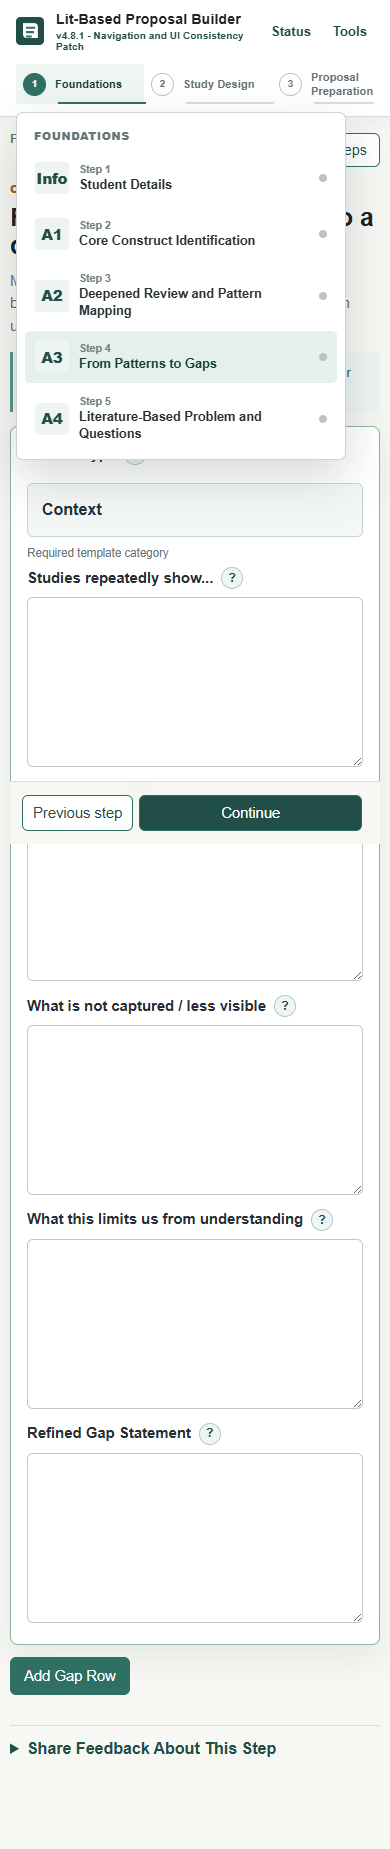
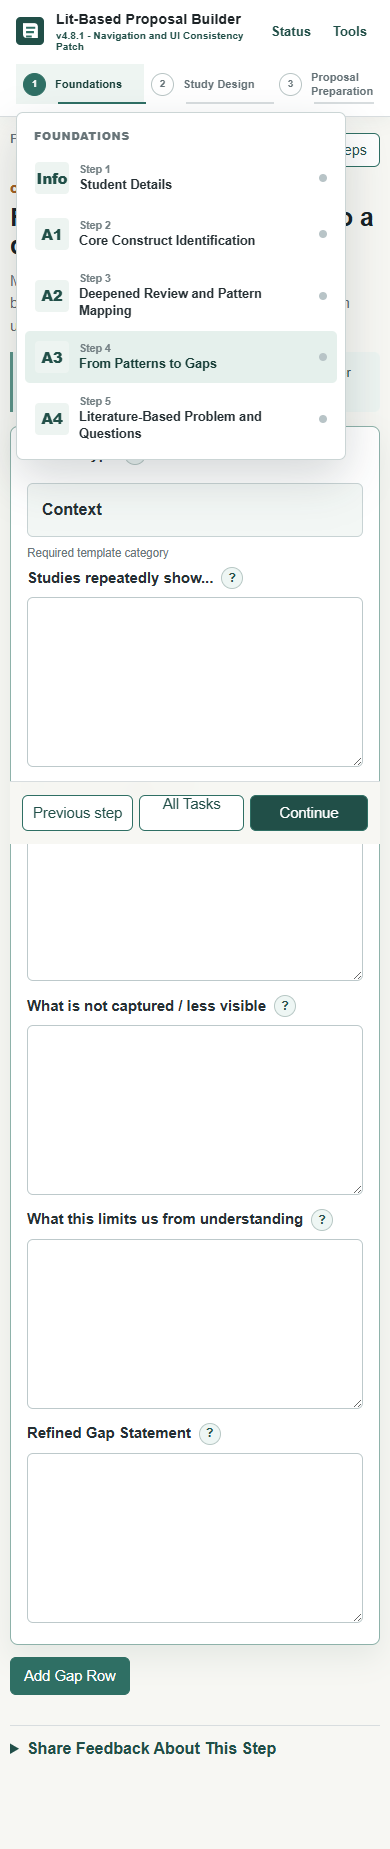
mobile ui fix

Changed region(s): [[0.3385, 0.4316, 0.7077, 0.4624], [0.7692, 0.4316, 0.8308, 0.4624], [0.9231, 0.4316, 0.9538, 0.4624]]

diff --git a/tools/v481-ui-consistency-test.js b/tools/v481-ui-consistency-test.js
@@ -101,6 +101,16 @@ async function openStage(page, phaseId, stageId) {
   await page.setViewportSize({ width: 390, height: 844 });
   await page.reload({ waitUntil: "domcontentloaded" });
   await page.waitForTimeout(250);
+  assert(await page.locator("#stageTaskCounter").isVisible(), "Mobile task counter is hidden, making later fields appear missing.");
+  assert(await page.locator("#allTasksBtn").isVisible(), "Mobile All Tasks control is hidden.");
+  await page.locator("#allTasksBtn").click();
+  assert(await page.locator("#allTaskList .all-task-item").count() > 1, "Mobile task chooser does not list the stage fields.");
+  const taskDialogRect = await page.locator("#allTasksDialog").evaluate((dialog) => {
+    const rect = dialog.getBoundingClientRect();
+    return { left: rect.left, right: rect.right, width: window.innerWidth };
+  });
+  assert(taskDialogRect.left >= 0 && taskDialogRect.right <= taskDialogRect.width + 1, "Mobile task chooser escapes the viewport.");
+  await page.locator("#closeAllTasksBtn").click();
   await page.locator('[data-phase="foundations"]').click();
   const menuRect = await page.locator("#phaseMenu").evaluate((menu) => {
     const rect = menu.getBoundingClientRect();
@@ -109,6 +119,13 @@ async function openStage(page, phaseId, stageId) {
   assert(menuRect.left >= 0 && menuRect.right <= menuRect.width + 1, "Mobile phase menu escapes the viewport.");
   assert(await page.evaluate(() => document.documentElement.scrollWidth <= window.innerWidth + 1), "Mobile layout has horizontal overflow.");
   await page.screenshot({ path: `${outputDir}/v481-mobile-menu.png`, fullPage: true });
+
+  await page.keyboard.press("Escape");
+  await page.setViewportSize({ width: 360, height: 800 });
+  await page.waitForTimeout(100);
+  assert(await page.locator("#stageTaskCounter").isVisible(), "360px task counter is hidden.");
+  assert(await page.locator("#allTasksBtn").isVisible(), "360px All Tasks control is hidden.");
+  assert(await page.evaluate(() => document.documentElement.scrollWidth <= window.innerWidth + 1), "360px layout has horizontal overflow.");
 
   await openStage(page, "proposalPreparation", "terms");
   assert(await page.locator('#stageForm [data-add-row="terms"]').isVisible(), "Mobile Add Term control is missing.");

diff --git a/styles-upload.css b/styles-upload.css
@@ -2123,15 +2123,18 @@ dialog::backdrop {
 
   .stage-context-bar {
     align-items: flex-start;
+    flex-wrap: wrap;
     font-size: 0.72rem;
   }
 
   .stage-context-actions {
     gap: 6px;
+    margin-left: auto;
   }
 
   .stage-context-actions #stageTaskCounter {
-    display: none;
+    display: inline;
+    white-space: nowrap;
   }
 
   .stage-intro .eyebrow {
@@ -2166,9 +2169,14 @@ dialog::backdrop {
   }
 
   .focused-actions #skipBtn,
-  .focused-actions #allTasksBtn,
   .focused-actions .footer-save-state {
     display: none;
+  }
+
+  .focused-actions #allTasksBtn {
+    display: inline-flex;
+    min-width: 0;
+    justify-content: center;
   }
 
   .focused-actions #nextBtn {

diff --git a/index.html b/index.html
@@ -5,7 +5,7 @@
     <meta name="viewport" content="width=device-width, initial-scale=1" />
     <title>Lit-Based Proposal Builder</title>
     <link rel="icon" href="favicon.svg" type="image/svg+xml" />
-    <link rel="stylesheet" href="styles-upload.css?v=20260714-v481-ui-consistency" />
+    <link rel="stylesheet" href="styles-upload.css?v=[phone redacted]-v481-mobile-tasks" />
   </head>
   <body>
     <div class="app-shell">